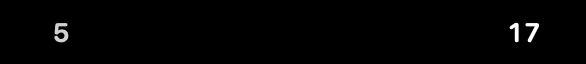
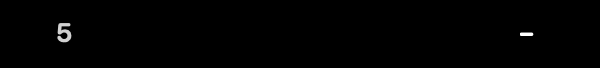
Day counter and a flame on the left of the notch
The left of the notch now counts days since 15 August rather than open tasks —
the clock matters more at a glance than the backlog, and the backlog still has
the whole left rail inside the panel. Override the start date with
"countingSince" in config.json; it defaults to the most recent 15 August so it
can never go negative.

The minute nudge now lights a flame on the left while the face scowls on the
right — outer flame and core flicker out of step so it reads as burning rather
than blinking.

Changed region(s): [[0.8601, 0.3438, 0.9215, 0.6562], [0.0922, 0.3125, 0.1229, 0.6875]]

diff --git a/Sources/NotchCounter/Components.swift b/Sources/NotchCounter/Components.swift
@@ -268,3 +268,73 @@ struct NudgeFace: View {
         withAnimation(.easeInOut(duration: 0.3)) { glare = 0 }
     }
 }
+
+/// Flame silhouette — a teardrop with a leaning tip.
+struct FlameShape: Shape {
+    func path(in rect: CGRect) -> Path {
+        let w = rect.width, h = rect.height
+        var p = Path()
+        p.move(to: CGPoint(x: w * 0.5, y: h))
+        p.addCurve(to: CGPoint(x: w * 0.46, y: 0),
+                   control1: CGPoint(x: -w * 0.10, y: h * 0.66),
+                   control2: CGPoint(x: w * 0.30, y: h * 0.20))
+        p.addCurve(to: CGPoint(x: w * 0.5, y: h),
+                   control1: CGPoint(x: w * 0.66, y: h * 0.22),
+                   control2: CGPoint(x: w * 1.10, y: h * 0.62))
+        p.closeSubpath()
+        return p
+    }
+}
+
+/// The left-hand nudge: the day count briefly catches fire.
+struct FlameNudge: View {
+    @State private var rise: CGFloat = 0.35
+    @State private var flick: CGFloat = 1
+    @State private var sway: CGFloat = 0
+    @State private var coreFlick: CGFloat = 1
+
+    var body: some View {
+        ZStack {
+            FlameShape()
+                .fill(
+                    LinearGradient(colors: [Color(red: 1.0, green: 0.82, blue: 0.25),
+                                            Color(red: 0.98, green: 0.42, blue: 0.10),
+                                            Color(red: 0.90, green: 0.20, blue: 0.12)],
+                                   startPoint: .bottom, endPoint: .top)
+                )
+                .frame(width: 13, height: 19)
+                .scaleEffect(x: 1, y: flick, anchor: .bottom)
+                .rotationEffect(.degrees(sway), anchor: .bottom)
+
+            FlameShape()
+                .fill(Color(red: 1.0, green: 0.93, blue: 0.62))
+                .frame(width: 6, height: 8.5)
+                .offset(y: 5)
+                .scaleEffect(x: 1, y: coreFlick, anchor: .bottom)
+                .rotationEffect(.degrees(sway * 0.6), anchor: .bottom)
+        }
+        .scaleEffect(rise, anchor: .bottom)
+        .frame(height: 20)
+        .task { await burn() }
+    }
+
+    private func burn() async {
+        func pause(_ ms: UInt64) async { try? await Task.sleep(for: .milliseconds(ms)) }
+
+        withAnimation(.spring(response: 0.28, dampingFraction: 0.55)) { rise = 1 }
+        await pause(200)
+
+        // flicker: the outer flame and the core breathe out of step
+        for step in 0..<7 {
+            withAnimation(.easeInOut(duration: 0.13)) {
+                flick = step.isMultiple(of: 2) ? 1.12 : 0.9
+                sway = step.isMultiple(of: 2) ? 5 : -5
+            }
+            withAnimation(.easeInOut(duration: 0.09)) {
+                coreFlick = step.isMultiple(of: 2) ? 0.82 : 1.15
+            }
+            await pause(140)
+        }
+        withAnimation(.easeInOut(duration: 0.14)) { flick = 1; sway = 0; coreFlick = 1 }
+    }
+}

diff --git a/Sources/NotchCounter/AppState.swift b/Sources/NotchCounter/AppState.swift
@@ -18,6 +18,8 @@ final class AppState: ObservableObject {
     @Published var banner: String?
     /// The idle number is briefly a face, to pull your eye back to outreach.
     @Published var winking = false
+    /// …and the left one catches fire.
+    @Published var flaming = false
     @Published private(set) var nudgesEnabled = UserDefaults.standard.object(forKey: "nudges.enabled") as? Bool ?? true
 
     // Data
@@ -46,7 +48,7 @@ final class AppState: ObservableObject {
     func toggleNudges() {
         nudgesEnabled.toggle()
         UserDefaults.standard.set(nudgesEnabled, forKey: "nudges.enabled")
-        if !nudgesEnabled { winking = false }
+        if !nudgesEnabled { winking = false; flaming = false }
     }
 
     private func startNudging() {
@@ -57,9 +59,11 @@ final class AppState: ObservableObject {
                 guard let self, !Task.isCancelled else { return }
                 guard self.nudgesEnabled, !self.expanded, self.phase == .board else { continue }
                 self.winking = true
+                self.flaming = true
                 Haptics.nudge()
                 try? await Task.sleep(for: .seconds(2.6))
                 self.winking = false
+                self.flaming = false
             }
         }
     }
@@ -241,8 +245,15 @@ final class AppState: ObservableObject {
 
     var teamTotal: Int { teamCounts.values.reduce(0, +) }
 
-    /// What the team still owes today — mirrored in the notch, left of the camera.
+    /// What the team still owes today.
     var tasksLeft: Int { tasks.filter { $0.status != .done }.count }
+
+    /// Days on the clock — shown in the notch, left of the camera.
+    var daysSinceStart: Int {
+        let start = Config.countingSince()
+        let days = Calendar.current.dateComponents([.day], from: start, to: Date()).day ?? 0
+        return max(0, days)
+    }
 
     func tasks(in status: TaskStatus) -> [BoardTask] {
         tasks.filter { $0.status == status }

diff --git a/Sources/NotchCounter/Config.swift b/Sources/NotchCounter/Config.swift
@@ -24,6 +24,30 @@ enum Config {
         return Keychain.string(for: keychainAccount)
     }
 
+    /// The day the clock started. Optional `"countingSince": "2026-08-15"` in
+    /// config.json overrides it; otherwise it's the most recent 15 August, so the
+    /// number never goes negative.
+    static func countingSince() -> Date {
+        let calendar = Calendar.current
+        if let data = try? Data(contentsOf: configFileURL),
+           let json = try? JSONSerialization.jsonObject(with: data) as? [String: Any],
+           let raw = json["countingSince"] as? String {
+            let parser = DateFormatter()
+            parser.dateFormat = "yyyy-MM-dd"
+            parser.timeZone = .current
+            if let date = parser.date(from: raw) { return calendar.startOfDay(for: date) }
+        }
+
+        let now = Date()
+        var components = calendar.dateComponents([.year], from: now)
+        components.month = 8
+        components.day = 15
+        let thisYear = calendar.date(from: components) ?? now
+        if thisYear <= now { return calendar.startOfDay(for: thisYear) }
+        components.year = (components.year ?? 2026) - 1
+        return calendar.startOfDay(for: calendar.date(from: components) ?? now)
+    }
+
     static func save(databaseURL: String) {
         Keychain.set(databaseURL, for: keychainAccount)
     }

diff --git a/Sources/NotchCounter/NotchView.swift b/Sources/NotchCounter/NotchView.swift
@@ -41,11 +41,20 @@ struct NotchView: View {
         HStack(spacing: 0) {
             Color.clear.frame(width: Style.topFlare)
 
-            Text(app.me == nil ? "–" : "\(app.tasksLeft)")
-                .font(.system(size: 13, weight: .semibold, design: .rounded).monospacedDigit())
-                .foregroundStyle(.white.opacity(0.82))
-                .contentTransition(.numericText())
-                .frame(width: geo.leadingTail)
+            Group {
+                if app.flaming {
+                    FlameNudge()
+                        .transition(.scale(scale: 0.5, anchor: .bottom).combined(with: .opacity))
+                } else {
+                    Text("\(app.daysSinceStart)")
+                        .font(.system(size: 13, weight: .semibold, design: .rounded).monospacedDigit())
+                        .foregroundStyle(.white.opacity(0.82))
+                        .contentTransition(.numericText())
+                        .transition(.scale(scale: 0.6).combined(with: .opacity))
+                }
+            }
+            .frame(width: geo.leadingTail)
+            .animation(.spring(response: 0.3, dampingFraction: 0.7), value: app.flaming)
 
             Color.clear.frame(width: geo.notchWidth)
 

diff --git a/Sources/NotchCounter/BoardView.swift b/Sources/NotchCounter/BoardView.swift
@@ -224,6 +224,16 @@ struct TasksLeftRail: View {
 
     var body: some View {
         VStack(alignment: .leading, spacing: 0) {
+            HStack(spacing: 5) {
+                Text("Day \(app.daysSinceStart)")
+                    .font(.system(size: 11, weight: .semibold, design: .rounded).monospacedDigit())
+                    .foregroundStyle(.white.opacity(0.8))
+                Text("since 15 Aug")
+                    .font(.system(size: 9.5, design: .rounded))
+                    .foregroundStyle(.white.opacity(0.3))
+            }
+            .padding(.bottom, 8)
+
             Text("Tasks left today")
                 .font(.system(size: 10.5, weight: .medium, design: .rounded))
                 .foregroundStyle(Palette.dim)

diff --git a/README.md b/README.md
@@ -13,9 +13,9 @@
   <img src="docs/idle.png" width="420" alt="Idle state">
 </p>
 
-Idle, it widens the notch both ways: tasks the team still owes on the left, how
-many people you've reached out to today on the right. It never reaches below the
-menu bar, so it can't cover anything in the app underneath.
+Idle, it widens the notch both ways: what day you're on since you started on the
+left, how many people you've reached out to today on the right. It never reaches
+below the menu bar, so it can't cover anything in the app underneath.
 
 Hover it and the whole board drops down. The board is shared — every person
 running the app against the same database sees the same cards, and changes show
@@ -37,12 +37,16 @@ outreach counter on the right.
 - **Assign to a teammate** — click the avatar on a card.
 - **Deleting asks first** — the card flips to a confirmation instead of
   vanishing under the pointer.
+- **Day counter** — days since 15 August in the notch, so the clock is always in
+  front of you. Override the date with `"countingSince": "2026-08-15"` in
+  config.json.
 - **Tasks left today** — the left rail counts everything not yet Done across the
   team, with the split per column and how many are on you.
 - **Outreach counter** — per person, per day. `+` / `−` on the right, with a
   confirmation before reset. The panel also shows the team's total for the day.
-- **A nudge** — once a minute the idle number turns into a small angry face,
-  brows down, and glares at you until you get back to outreach.
+- **A nudge** — once a minute the notch catches fire on one side and scowls at
+  you on the other, until you get back to outreach.
+  <img src="docs/nudge-fire.png" width="34" align="center" alt="the flame">
   <img src="docs/nudge.png" width="52" align="center" alt="the nudge face">
   Turn it off by right-clicking the notch.
 - **Haptics on everything** — the panel lands with a double thunk, the counter
